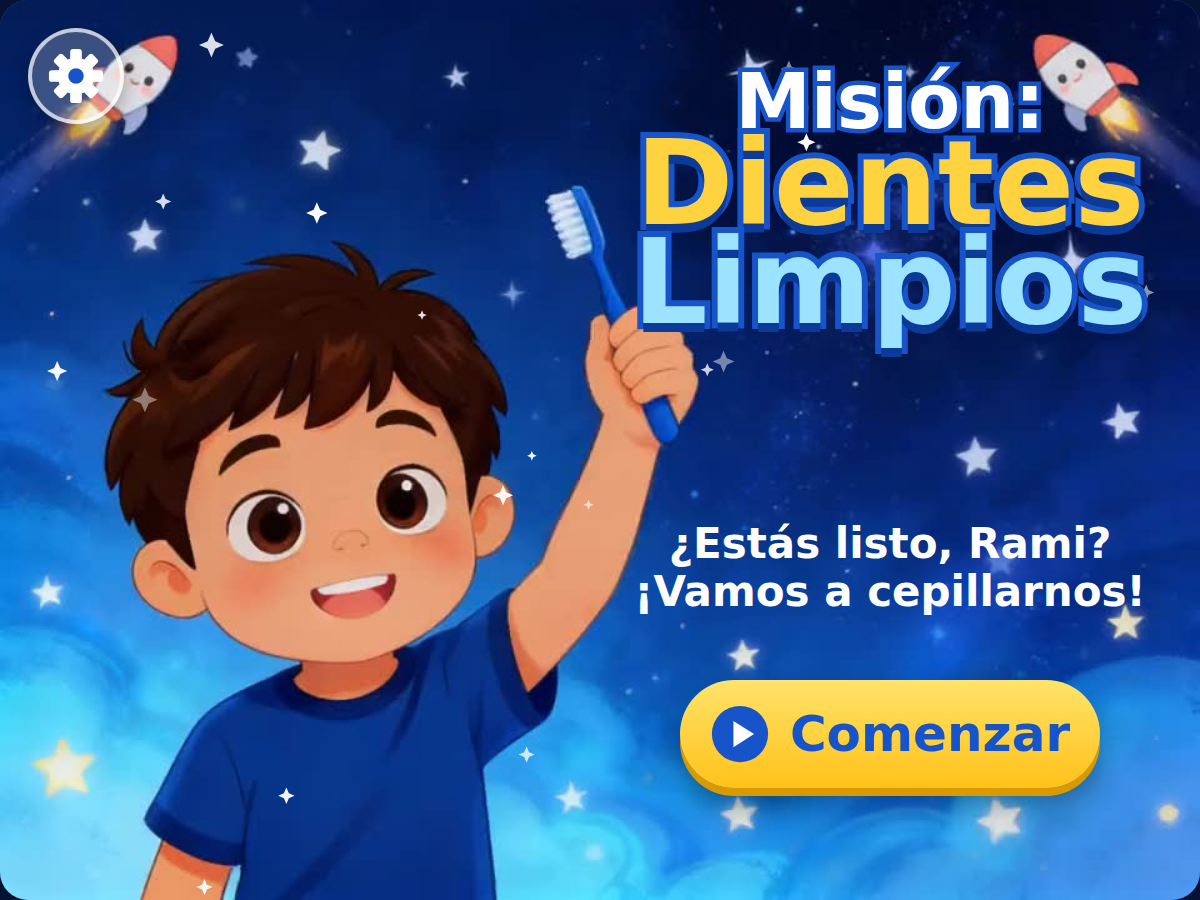
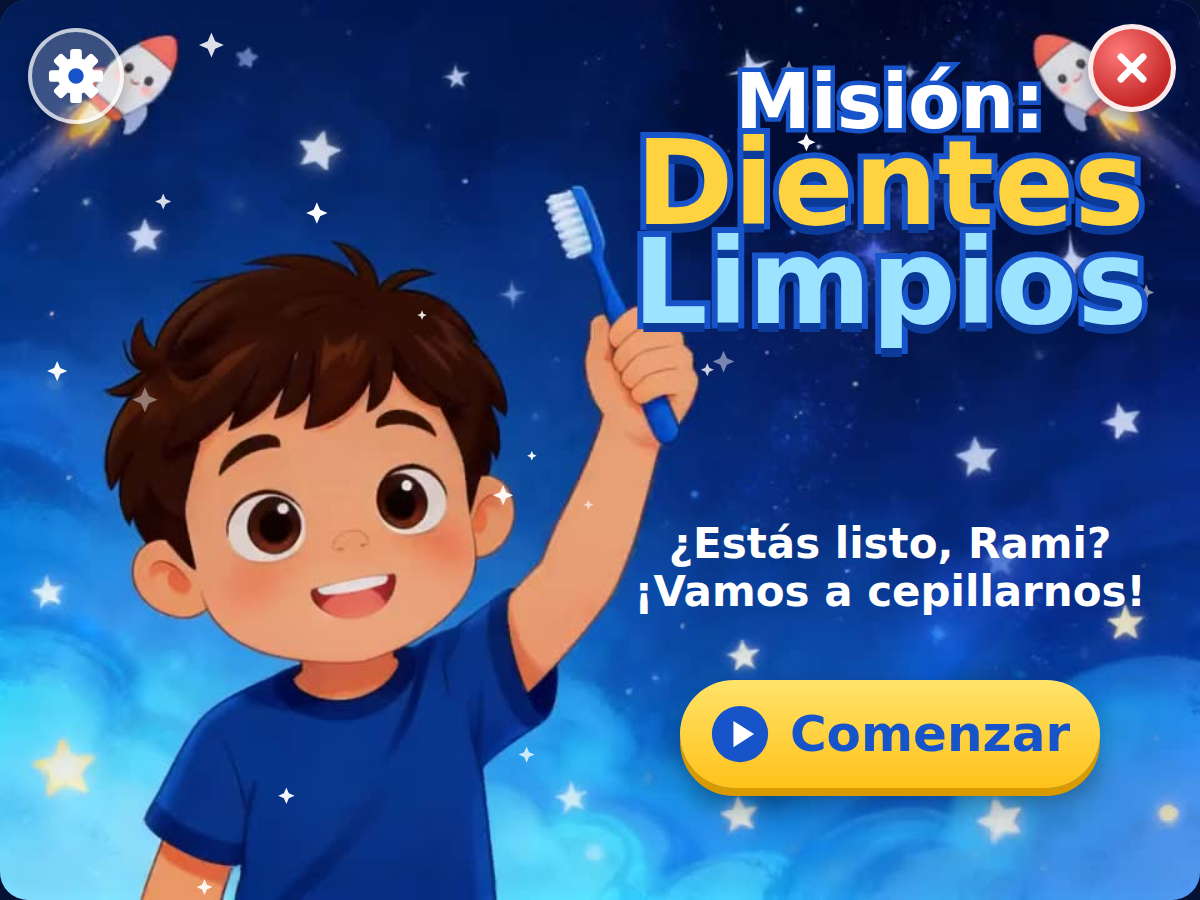
Diseño para celular vertical, botón casita (menú principal) y botón salir
- Celular vertical: escena arriba y textos/botones debajo, más grandes; la app se instala
  en vertical (manifest orientation: portrait). Se quita el aviso de girar el celular.
- Casita: vuelve al menú principal sin salir. Salir: apaga voz y micrófono, intenta cerrar
  la app y muestra una despedida con «Volver a jugar».

Claude-Session: https://claude.ai/code/session_01CqgnvX7pNUGeMm5RY4B4eg

Changed region(s): [[0.8942, 0.0, 0.9867, 0.1556]]

diff --git a/juego/index.html b/juego/index.html
@@ -35,7 +35,8 @@
     transform-origin: center center; border-radius: 28px; background: #3F8FE0; }
   .pantalla { position: absolute; inset: 0; display: none; }
   .pantalla.activa { display: block; }
-  .pantalla > svg { position: absolute; inset: 0; display: block; }
+  .cuadro { position: absolute; left: 0; top: 0; width: 1200px; height: 900px; }
+  .cuadro > svg { position: absolute; inset: 0; display: block; }
   button { font: inherit; border: 0; cursor: pointer; -webkit-tap-highlight-color: transparent; }
 
   /* ---------- Inicio y final ---------- */
@@ -127,7 +128,7 @@
   #escenario[data-pantalla="mision"] .aviso { left: 330px; }
   #escenario[data-pantalla="inicio"] .aviso { left: 890px; bottom: 28px; }
   #escenario[data-pantalla="final"] .aviso { bottom: auto; top: 24px; }
-  #escenario[data-pantalla="foto"] .aviso { display: none; }
+  #escenario[data-pantalla="foto"] .aviso, #escenario[data-pantalla="chau"] .aviso { display: none; }
 
   /* ---------- Configuración (ruedita del inicio) ---------- */
   #btn-config { position: absolute; left: 28px; top: 28px; width: 96px; height: 96px; border-radius: 50%;
@@ -179,15 +180,64 @@
   .foto-botones { position: absolute; left: 0; right: 0; bottom: 12px; display: none; justify-content: center; gap: 30px; }
   .foto-botones.ver { display: flex; }
   .foto-botones .boton-amarillo { position: static; width: 440px; height: 80px; font-size: 36px; white-space: nowrap; }
-  /* Aviso para girar el celular: el juego se ve horizontal. */
-  #girar { position: fixed; inset: 0; z-index: 50; display: none; flex-direction: column; align-items: center;
-    justify-content: center; gap: 22px; padding: 24px; text-align: center; background: #0B2466; color: #fff;
-    font-size: 26px; font-weight: 800; }
-  #girar svg { animation: girar 2.2s ease-in-out infinite; }
-  @keyframes girar { 0%, 30% { transform: rotate(0); } 60%, 100% { transform: rotate(-90deg); } }
-  #girar button { font-size: 18px; font-weight: 700; color: #fff; background: none; border: 2px solid rgba(255,255,255,.6);
-    border-radius: 999px; padding: 10px 22px; }
-  @media (orientation: portrait) and (max-width: 820px) { body:not(.vertical-ok) #girar { display: flex; } }
+  /* Botones redondos: casita (menú principal) y salir. */
+  #barra { position: absolute; top: 24px; right: 24px; z-index: 25; display: flex; gap: 14px; }
+  .redondo { width: 88px; height: 88px; border-radius: 50%; display: flex; align-items: center; justify-content: center;
+    background: radial-gradient(circle at 35% 30%, #3E8BFF, #1646B8 70%); border: 5px solid rgba(255,255,255,.9);
+    box-shadow: 0 6px 16px rgba(10,40,110,.4); }
+  .redondo:active { transform: scale(.94); }
+  #btn-salir { background: radial-gradient(circle at 35% 30%, #FF7A7A, #C62828 70%); }
+  #escenario[data-pantalla="inicio"] #btn-casa,
+  #escenario[data-pantalla="foto"] #barra, #escenario[data-pantalla="chau"] #barra { display: none; }
+  #escenario:not(.vertical)[data-pantalla="paso"] .ui-lista { top: 128px; gap: 8px; }
+  .chau { position: absolute; inset: 0; display: flex; flex-direction: column; align-items: center; justify-content: center; gap: 30px; text-align: center; }
+  .chau-titulo { font-size: 110px; font-weight: 800; color: #FFD23F; -webkit-text-stroke: 12px #1753C9; paint-order: stroke fill; line-height: 1; }
+  .chau-texto { color: #fff; font-size: 44px; font-weight: 700; line-height: 1.2; }
+  #btn-volver-jugar { position: static; width: 480px; height: 104px; }
+
+  /* ---------- Celular vertical ----------
+     El escenario pasa a 1000 de ancho y tan alto como la pantalla; la escena (el cuadro de
+     1200×900) va arriba, más chica, y los textos y botones quedan debajo, más grandes.
+     --dy centra el contenido cuando la pantalla es más alta de lo necesario. */
+  #escenario.vertical .pantalla { background: linear-gradient(#1D4BA8, #0B2466); }
+  #escenario.vertical .cuadro { left: 20px; top: calc(var(--dy) + 150px); transform: scale(.8); transform-origin: 0 0;
+    border-radius: 40px; overflow: hidden; box-shadow: 0 12px 34px rgba(0,0,0,.4); }
+  #escenario.vertical #btn-config { top: 24px; left: 24px; }
+  /* inicio */
+  #escenario.vertical .titulo { left: 0; width: 1000px; top: calc(var(--dy) + 900px); }
+  #escenario.vertical .lema { left: 0; width: 1000px; top: calc(var(--dy) + 1190px); font-size: 46px; }
+  #escenario.vertical #btn-comenzar { left: 250px; width: 500px; height: 116px; top: calc(var(--dy) + 1350px); }
+  #escenario.vertical[data-pantalla="inicio"] .aviso { left: 500px; bottom: auto; top: calc(var(--dy) + 1510px); }
+  /* misión */
+  #escenario.vertical #p-mision .ui-paso { top: calc(var(--dy) + 40px); }
+  #escenario.vertical .ui-consejo { left: 30px; width: 940px; transform: none; bottom: auto; min-height: 150px; }
+  #escenario.vertical .ui-consejo .l1 { font-size: 42px; }
+  #escenario.vertical .ui-consejo .l2 { font-size: 36px; }
+  #escenario.vertical #p-mision .ui-consejo { top: calc(var(--dy) + 910px); }
+  #escenario.vertical #btn-mision-seguir { right: auto !important; left: 446px; bottom: auto; top: calc(var(--dy) + 1140px); }
+  #escenario.vertical[data-pantalla="mision"] .aviso { left: 500px; bottom: auto; top: calc(var(--dy) + 1290px); }
+  /* pasos */
+  #escenario.vertical #p-paso .cuadro { top: calc(var(--dy) + 300px); }
+  #escenario.vertical .ui-reloj { top: calc(var(--dy) + 14px); left: 30px; }
+  #escenario.vertical #p-paso .ui-paso { top: calc(var(--dy) + 190px); }
+  #escenario.vertical .ui-lista { top: calc(var(--dy) + 1040px); right: auto; left: 50%; transform: translateX(-50%);
+    width: auto; flex-direction: row; padding: 10px 18px; }
+  #escenario.vertical #p-paso .ui-consejo { top: calc(var(--dy) + 1140px); }
+  #escenario.vertical #btn-anterior, #escenario.vertical #btn-siguiente { bottom: auto; top: calc(var(--dy) + 1330px); }
+  #escenario.vertical #btn-anterior { left: 200px; }
+  #escenario.vertical #btn-siguiente { right: 200px; }
+  #escenario.vertical[data-pantalla="paso"] .aviso { left: 500px; bottom: auto; top: calc(var(--dy) + 1470px); }
+  /* final */
+  #escenario.vertical #btn-foto, #escenario.vertical #p-final #btn-volver { left: 150px; width: 700px; height: 112px; font-size: 46px; }
+  #escenario.vertical #btn-foto { top: calc(var(--dy) + 910px); }
+  #escenario.vertical #p-final #btn-volver { top: calc(var(--dy) + 1060px); }
+  #escenario.vertical[data-pantalla="final"] .aviso { left: 500px; top: calc(var(--dy) + 1210px); }
+  /* foto */
+  #escenario.vertical .foto-botones { bottom: auto; top: calc(var(--dy) + 910px); flex-direction: column; align-items: center; gap: 24px; }
+  #escenario.vertical .foto-botones .boton-amarillo { width: 620px; height: 104px; font-size: 44px; }
+  /* despedida */
+  #escenario.vertical .chau-titulo { font-size: 96px; }
+
   #bien { position: absolute; left: 50%; top: 230px; transform: translateX(-50%) scale(0); font-size: 110px;
     font-weight: 800; color: #FFD23F; -webkit-text-stroke: 12px #1753C9; paint-order: stroke fill;
     transition: transform .35s cubic-bezier(.3,1.6,.5,1); pointer-events: none; white-space: nowrap; }
@@ -195,11 +245,6 @@
 </style>
 </head>
 <body>
-<div id="girar" role="dialog" aria-label="Girá el celular">
-  <svg width="96" height="96" viewBox="0 0 96 96"><rect x="30" y="10" width="36" height="66" rx="8" fill="none" stroke="#FFD23F" stroke-width="6"/><circle cx="48" cy="66" r="3.5" fill="#FFD23F"/><path d="M14 58a36 36 0 0 0 26 28" fill="none" stroke="#fff" stroke-width="5" stroke-linecap="round"/><path d="M36 80l6 7-9 2" fill="none" stroke="#fff" stroke-width="5" stroke-linecap="round" stroke-linejoin="round"/></svg>
-  Girá el celular para jugar
-  <button id="girar-igual">Jugar así igual</button>
-</div>
 <div id="marco">
   <div id="escenario" data-pantalla="inicio">
 
@@ -228,10 +273,21 @@
       </div>
     </div>
 
+    <div id="barra">
+      <button id="btn-casa" class="redondo" aria-label="Ir al menú principal">
+        <svg width="50" height="50" viewBox="0 0 54 54"><path d="M8 26L27 9L46 26M14 22V45H24V33H30V45H40V22" stroke="#fff" stroke-width="6" stroke-linecap="round" stroke-linejoin="round" fill="none"/></svg>
+      </button>
+      <button id="btn-salir" class="redondo" aria-label="Salir de la aplicación">
+        <svg width="46" height="46" viewBox="0 0 54 54"><path d="M14 14L40 40M40 14L14 40" stroke="#fff" stroke-width="8" stroke-linecap="round" fill="none"/></svg>
+      </button>
+    </div>
+
     <!-- ================= INICIO ================= -->
     <section id="p-inicio" class="pantalla noche activa">
-      <video class="video-escena" id="video-inicio" muted loop playsinline preload="auto"></video>
-      <svg id="svg-inicio" viewBox="0 0 1200 900" width="1200" height="900"></svg>
+      <div class="cuadro">
+        <video class="video-escena" id="video-inicio" muted loop playsinline preload="auto"></video>
+        <svg id="svg-inicio" viewBox="0 0 1200 900" width="1200" height="900"></svg>
+      </div>
       <div class="titulo"><span class="t1">Misión:</span><span class="t2">Dientes</span><span class="t3">Limpios</span></div>
       <div class="lema"><span id="lema-nombre">¿Estás listo, Rami?</span><br>¡Vamos a cepillarnos!</div>
       <button id="btn-config" aria-label="Configuración">
@@ -250,13 +306,15 @@
 
     <!-- ============ MISIÓN: SUPERDIENTE PIDE EL CEPILLO ============ -->
     <section id="p-mision" class="pantalla">
-      <video class="video-escena" id="video-mision" muted loop playsinline preload="auto"></video>
-      <svg id="svg-mision" viewBox="0 0 1200 900" width="1200" height="900"></svg>
+      <div class="cuadro">
+        <video class="video-escena" id="video-mision" muted loop playsinline preload="auto"></video>
+        <svg id="svg-mision" viewBox="0 0 1200 900" width="1200" height="900"></svg>
+        <div class="pista" id="pista-cepillo">¡Tocalo o decí «sí»!</div>
+      </div>
       <div class="ui-paso">
         <svg class="icono" viewBox="0 0 76 76"><circle cx="38" cy="38" r="36" fill="#FFF3C4"/><path d="M38 12l7.6 15.4 17 2.5-12.3 12 2.9 16.9L38 50.8l-15.2 8 2.9-16.9-12.3-12 17-2.5z" fill="#FFC21A" stroke="#E0A100" stroke-width="3" stroke-linejoin="round"/></svg>
         <span class="nombre">¡Tu misión!</span>
       </div>
-      <div class="pista" id="pista-cepillo">¡Tocalo o decí «sí»!</div>
       <div class="ui-consejo">
         <button id="btn-voz-mision" aria-label="Escuchar a Superdiente">
           <svg width="48" height="48" viewBox="0 0 54 54"><path d="M8 20h9l12-10v34L17 34H8z" fill="#fff"/><path d="M36 18q6 9 0 18M42 12q11 15 0 30" stroke="#fff" stroke-width="5" stroke-linecap="round" fill="none"/></svg>
@@ -270,8 +328,11 @@
 
     <!-- ================= PASOS ================= -->
     <section id="p-paso" class="pantalla">
-      <video class="video-escena" id="video-paso" muted loop playsinline preload="auto"></video>
-      <svg id="svg-paso" viewBox="0 0 1200 900" width="1200" height="900"></svg>
+      <div class="cuadro">
+        <video class="video-escena" id="video-paso" muted loop playsinline preload="auto"></video>
+        <svg id="svg-paso" viewBox="0 0 1200 900" width="1200" height="900"></svg>
+        <div id="bien">¡Muy bien!</div>
+      </div>
 
       <div class="ui-reloj">
         <svg viewBox="0 0 150 150" width="150" height="150">
@@ -295,8 +356,6 @@
 
       <div class="ui-lista" id="lista"></div>
 
-      <div id="bien">¡Muy bien!</div>
-
       <button class="flecha" id="btn-anterior" aria-label="Paso anterior">
         <svg width="50" height="50" viewBox="0 0 54 54"><path d="M33 10L16 27L33 44" stroke="#fff" stroke-width="9" stroke-linecap="round" stroke-linejoin="round" fill="none"/></svg>
       </button>
@@ -313,12 +372,14 @@
 
     <!-- ================= FINAL ================= -->
     <section id="p-final" class="pantalla noche">
+      <div class="cuadro">
       <svg id="svg-final" viewBox="0 0 1200 900" width="1200" height="900"></svg>
       <div class="fin-titulo">¡Lo hiciste!</div>
       <div class="fin-texto">¡Dientes limpios<br>y una gran sonrisa!</div>
       <div class="racha">
         <svg width="48" height="48" viewBox="0 0 50 50"><path d="M25 4C29 14 40 18 40 31A15 15 0 0 1 10 31C10 23 15 19 18 14C19 20 22 22 24 22C22 15 23 9 25 4Z" fill="#FF7A2F"/><path d="M25 24C28 29 32 31 32 36A7 7 0 0 1 18 36C18 31 22 29 25 24Z" fill="#FFD23F"/></svg>
         Racha de días <span class="num" id="racha-num">1</span>
+      </div>
       </div>
       <button id="btn-foto" class="boton-amarillo">
         <svg width="54" height="54" viewBox="0 0 54 54"><path d="M8 17h9l4-6h12l4 6h9v26H8z" fill="#1753C9"/><circle cx="27" cy="30" r="9" fill="#FFD23F" stroke="#1753C9" stroke-width="4"/></svg>
@@ -330,15 +391,26 @@
       </button>
     </section>
 
+    <!-- ================= DESPEDIDA (botón salir) ================= -->
+    <section id="p-chau" class="pantalla noche">
+      <div class="chau">
+        <div class="chau-titulo">¡Hasta la próxima!</div>
+        <div class="chau-texto" id="chau-texto">Ya podés cerrar la aplicación<br>con el botón ◁ del celular.</div>
+        <button id="btn-volver-jugar" class="boton-amarillo">Volver a jugar</button>
+      </div>
+    </section>
+
     <!-- ============ FOTO: ¿Querés ver cómo quedó? ============
          La foto vive solo en la memoria de esta pantalla: nunca se guarda ni se sube,
          y se borra al salir de la pantalla o de la aplicación. -->
     <section id="p-foto" class="pantalla noche">
-      <video id="camara" playsinline muted autoplay></video>
-      <canvas id="foto" width="1200" height="900"></canvas>
-      <div id="cuenta"></div>
-      <div id="foto-flash"></div>
-      <div class="foto-aviso" id="foto-aviso">Abriendo la cámara…</div>
+      <div class="cuadro">
+        <video id="camara" playsinline muted autoplay></video>
+        <canvas id="foto" width="1200" height="900"></canvas>
+        <div id="cuenta"></div>
+        <div id="foto-flash"></div>
+        <div class="foto-aviso" id="foto-aviso">Abriendo la cámara…</div>
+      </div>
       <div class="foto-botones" id="foto-botones">
         <button id="btn-otra-foto" class="boton-amarillo">
           <svg width="50" height="50" viewBox="0 0 54 54"><path d="M8 17h9l4-6h12l4 6h9v26H8z" fill="#1753C9"/><circle cx="27" cy="30" r="9" fill="#FFD23F" stroke="#1753C9" stroke-width="4"/></svg>
@@ -908,7 +980,7 @@
 
   function ponerVideo(video, nombre, svg, selectorOcultar, alCambiar) {
     var piezas = Array.prototype.slice.call(svg.querySelectorAll(selectorOcultar));
-    var escena = video.parentNode;
+    var escena = video.closest('.pantalla');
     function verDibujo(si) {
       piezas.forEach(function (el) { el.style.visibility = si ? '' : 'hidden'; });
       if (alCambiar) alCambiar(!si);
@@ -935,7 +1007,7 @@
     $('escenario').setAttribute('data-pantalla', nombre);
     if (nombre === 'inicio') ponerVideo($('video-inicio'), 'inicio', $('svg-inicio'), '.fondo, .nino-inicio, #sd-inicio');
     if (nombre !== 'foto') { detenerCamara(); borrarFoto(); }
-    ['inicio', 'mision', 'paso', 'final', 'foto'].forEach(function (p) { $('p-' + p).classList.toggle('activa', p === nombre); });
+    ['inicio', 'mision', 'paso', 'final', 'foto', 'chau'].forEach(function (p) { $('p-' + p).classList.toggle('activa', p === nombre); });
     Array.prototype.forEach.call($('p-' + nombre).querySelectorAll('.superdiente'), function (g) {
       g.setAttribute('data-t0', tReloj());
       g.removeAttribute('data-fiesta');
@@ -1651,6 +1723,18 @@
   $('btn-voz').onclick = function () { var p = PASOS[estado.paso]; hablar(p.l1 + ' ' + p.l2, p.id); };
   $('btn-volver').onclick = function () { mostrar('inicio'); saludar(); };
   $('btn-config').onclick = function () { abrirConfig(true); };
+  // Casita: vuelve al menú principal sin salir de la aplicación.
+  $('btn-casa').onclick = function () { mostrar('inicio'); saludar(); };
+  // Salir: apaga todo y cierra la app si el sistema lo permite; si no, queda la despedida.
+  $('btn-salir').onclick = function () {
+    escuchar(false);
+    try { reproductor.pause(); } catch (e) {}
+    try { if (hayVoz) speechSynthesis.cancel(); } catch (e) {}
+    $('chau-texto').innerHTML = '¡Chau, ' + NOMBRE + '!<br>Ya podés cerrar la aplicación<br>con el botón ◁ del celular.';
+    mostrar('chau');
+    try { window.close(); } catch (e) {}
+  };
+  $('btn-volver-jugar').onclick = function () { mostrar('inicio'); saludar(); };
   $('config-listo').onclick = confirmarConfig;
   // Tocar afuera cierra sin guardar, salvo la primera vez (hay que completar el nombre).
   $('config').addEventListener('click', function (ev) { if (ev.target === $('config') && perfil) abrirConfig(false); });
@@ -1668,12 +1752,25 @@
   }, 600);
 
   /* ---------- Escalado del escenario ---------- */
+  // Horizontal: escenario 1200×900. Vertical (celular parado): 1000 de ancho y tan alto como la
+  // pantalla, con la escena arriba y los controles abajo (ver «Celular vertical» en el CSS).
+  var ALTO_VERTICAL = 1650;
   function ajustar() {
-    var e = Math.min(window.innerWidth / 1200, window.innerHeight / 900);
-    $('escenario').style.transform = 'scale(' + e + ')';
+    var an = window.innerWidth, al = window.innerHeight, esc = $('escenario');
+    var vertical = al > an * 1.15 && !congeladoCaptura;
+    esc.classList.toggle('vertical', vertical);
+    if (vertical) {
+      var alto = Math.max(ALTO_VERTICAL, Math.round(1000 * al / an));
+      esc.style.width = '1000px'; esc.style.height = alto + 'px';
+      esc.style.setProperty('--dy', Math.round((alto - ALTO_VERTICAL) / 2) + 'px');
+      esc.style.transform = 'scale(' + Math.min(an / 1000, al / alto) + ')';
+    } else {
+      esc.style.width = ''; esc.style.height = '';
+      esc.style.transform = 'scale(' + Math.min(an / 1200, al / 900) + ')';
+    }
   }
+  var congeladoCaptura = false;
   window.addEventListener('resize', ajustar);
-  $('girar-igual').onclick = function () { document.body.classList.add('vertical-ok'); };
   // App instalable (pantalla completa, horizontal). Solo en la página publicada, no dentro de otro visor.
   if ('serviceWorker' in navigator && (location.protocol === 'https:' || location.hostname === 'localhost') && window.self === window.top) {
     window.addEventListener('load', function () { navigator.serviceWorker.register('sw.js').catch(function () {}); });
@@ -1702,8 +1799,11 @@
   // Acceso para capturas y pruebas: congela el tiempo y posa una pantalla concreta.
   window.DientesLimpios = {
     PASOS: PASOS,
+    // Para capturas en celular vertical: vuelve a usar el diseño según el tamaño de la ventana.
+    segunPantalla: function () { congeladoCaptura = false; ajustar(); },
     posar: function (pantalla, paso, tAnim, tPaso) {
       congelado = true; vozActiva = false; estado.auto = false;
+      congeladoCaptura = true; ajustar();
       mostrar(pantalla);
       Array.prototype.forEach.call(document.querySelectorAll('.superdiente'), function (g) { g.setAttribute('data-t0', -100); });
       if (pantalla === 'paso') { irAPaso(paso); estado.tiempo = tPaso || 0; actualizarReloj(); }
